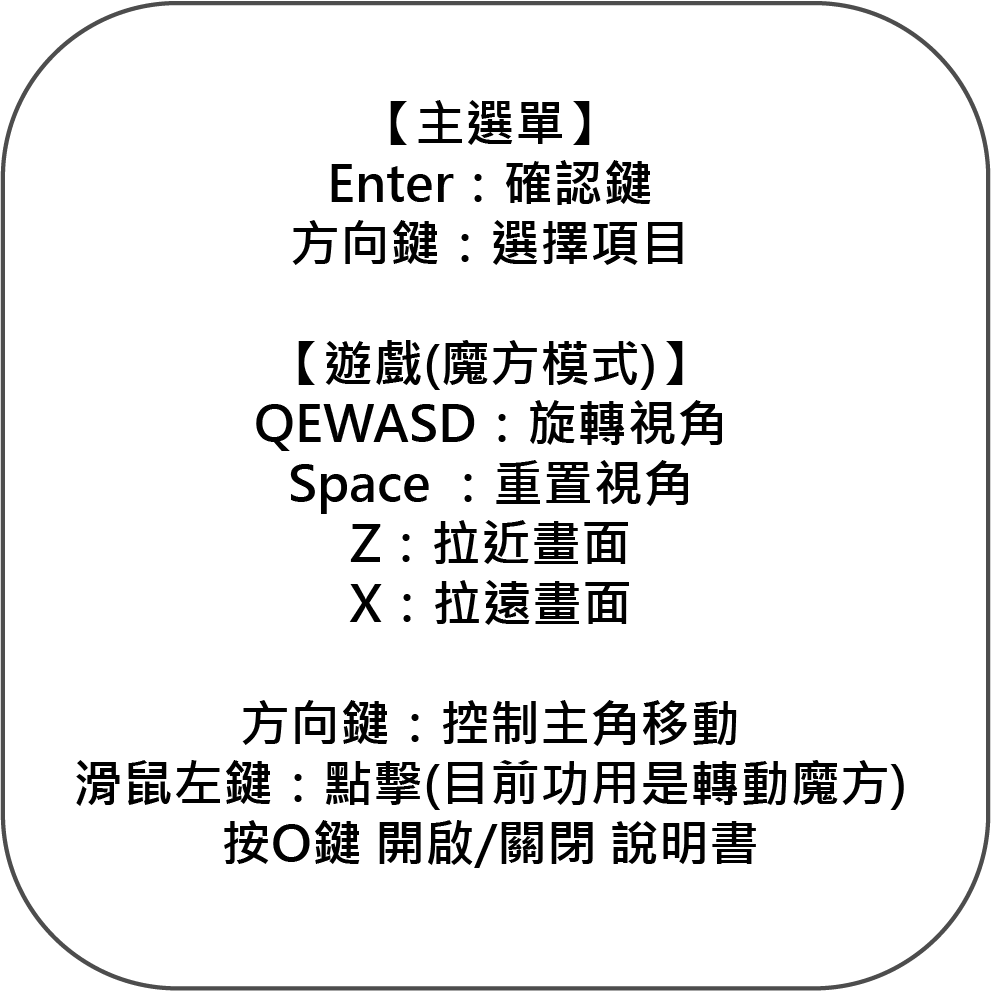
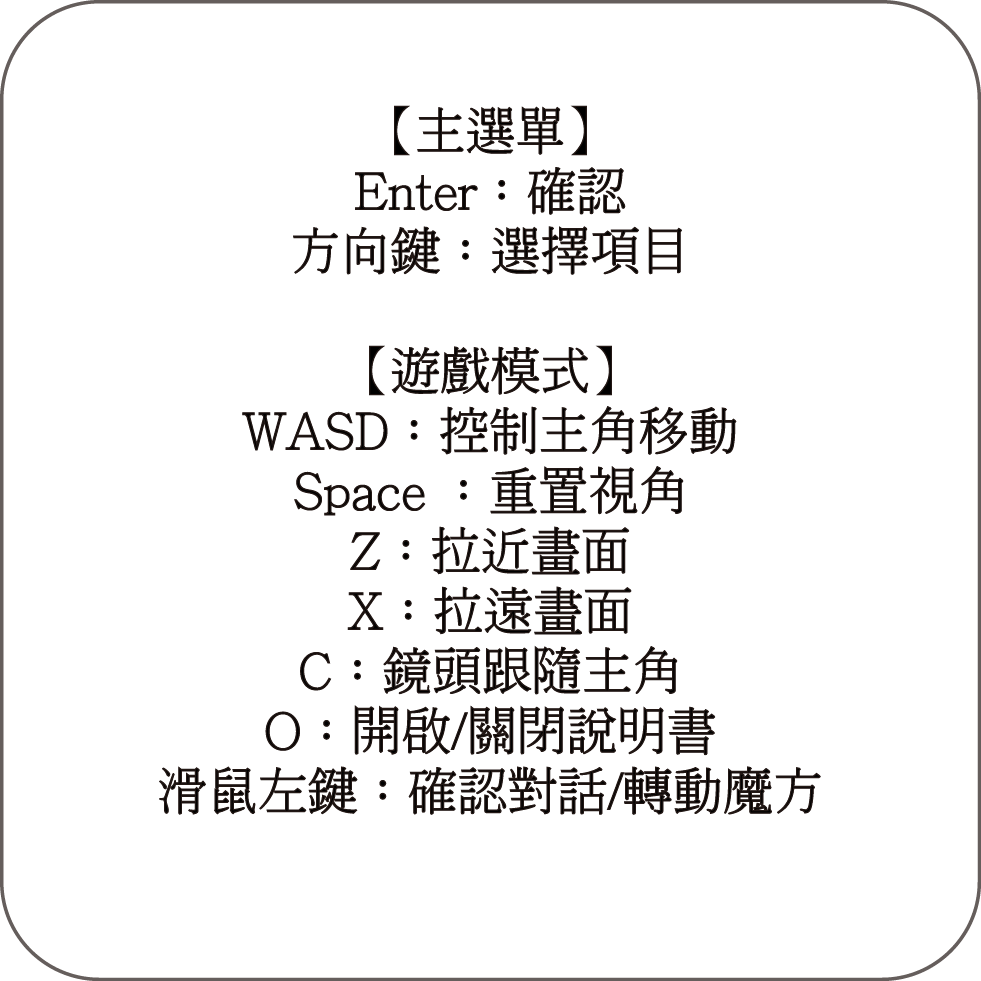
肚子餓啦_0528
1. 移動自由度提高
2. 卡住或球不見就按空白鍵

diff --git a/【RegulusX】/Assets/Scripts/PlayerController.cs b/【RegulusX】/Assets/Scripts/PlayerController.cs
@@ -59,7 +59,7 @@ public class PlayerController : MonoBehaviour {
 			FloorR = 1;
 			FloorMax = 100;
 			MoveTarget = new Vector3 (0.922f, 2.59f, 0.982f);
-			MoveDistance = 0.404f;
+			MoveDistance = 0.1f;
 			//MoveDistance = 0.404f;
 		} else {
 			FloorL = 4;
@@ -174,7 +174,6 @@ public class PlayerController : MonoBehaviour {
 		//九宮格走路
 		//print (FloorR);
 		if (Input.GetKey ("w")) {
-			CubeController.R_Button.transform.GetComponentInChildren<BoxCollider>().enabled = false;
 			if (OneShot == false) {
 				Player.transform.rotation = Quaternion.Euler (0f, 270f, 0f);
 				if (FloorR == FloorR) {
@@ -191,7 +190,6 @@ public class PlayerController : MonoBehaviour {
 		}
 
 		if (Input.GetKey ("s")) {
-			CubeController.R_Button.transform.GetComponentInChildren<BoxCollider>().enabled = false;
 			if (OneShot == false) {
 				Player.transform.rotation = Quaternion.Euler (0f, 90f, 0f);
 				if (FloorR == FloorR) {
@@ -207,7 +205,6 @@ public class PlayerController : MonoBehaviour {
 		}
 
 		if (Input.GetKey ("a")) {
-			CubeController.R_Button.transform.GetComponentInChildren<BoxCollider>().enabled = false;
 			if (OneShot == false) {
 				Player.transform.rotation = Quaternion.Euler (0f, 180f, 0f);
 				if (FloorL == FloorL) {
@@ -223,7 +220,6 @@ public class PlayerController : MonoBehaviour {
 		}
 
 		if (Input.GetKey ("d")) {
-			CubeController.R_Button.transform.GetComponentInChildren<BoxCollider>().enabled = false;
 			if(OneShot == false){
 			Player.transform.rotation = Quaternion.Euler (0f, 0f, 0f);
 				if (FloorL == FloorL) {

diff --git a/【RegulusX】/Assets/Scripts/CubeController.cs b/【RegulusX】/Assets/Scripts/CubeController.cs
@@ -56,8 +56,10 @@ public class CubeController : MonoBehaviour {
 		Player.SetActive (false);
 	}
 
+
 	void FixedUpdate ()
 	{
+
 
 		//轉動場景
 		/*if (Input.GetKey ("w")) {
